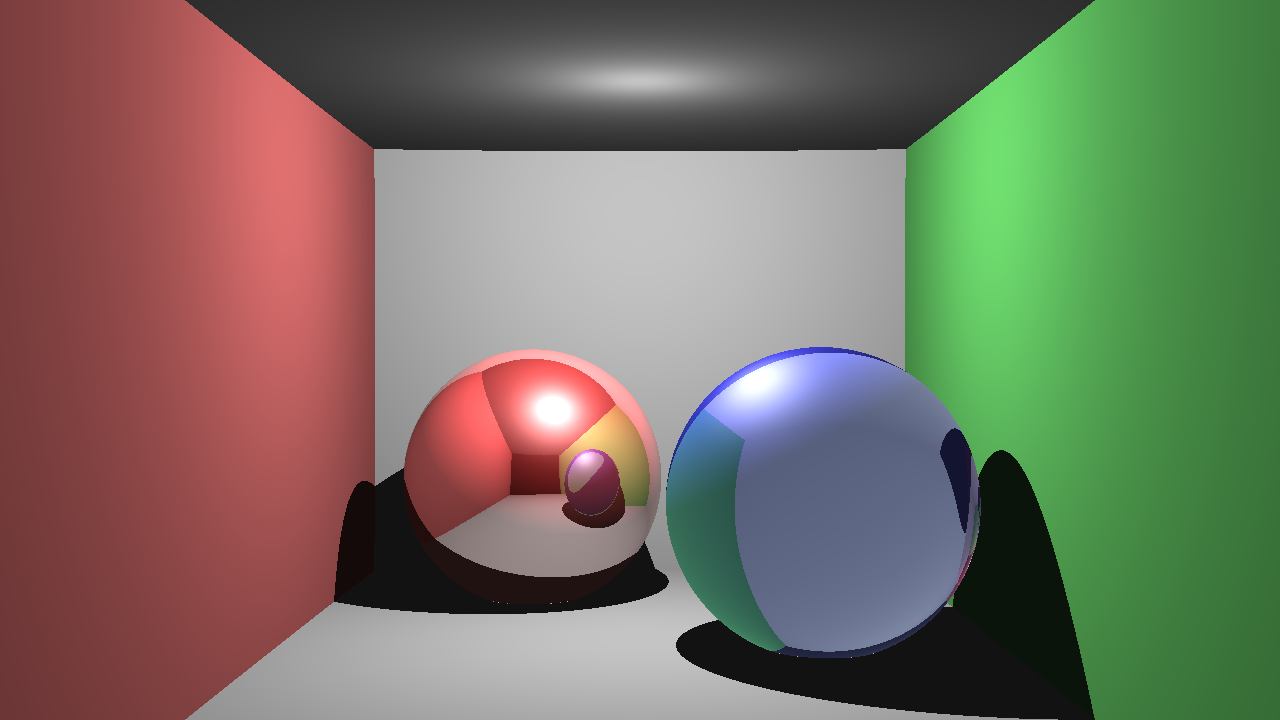
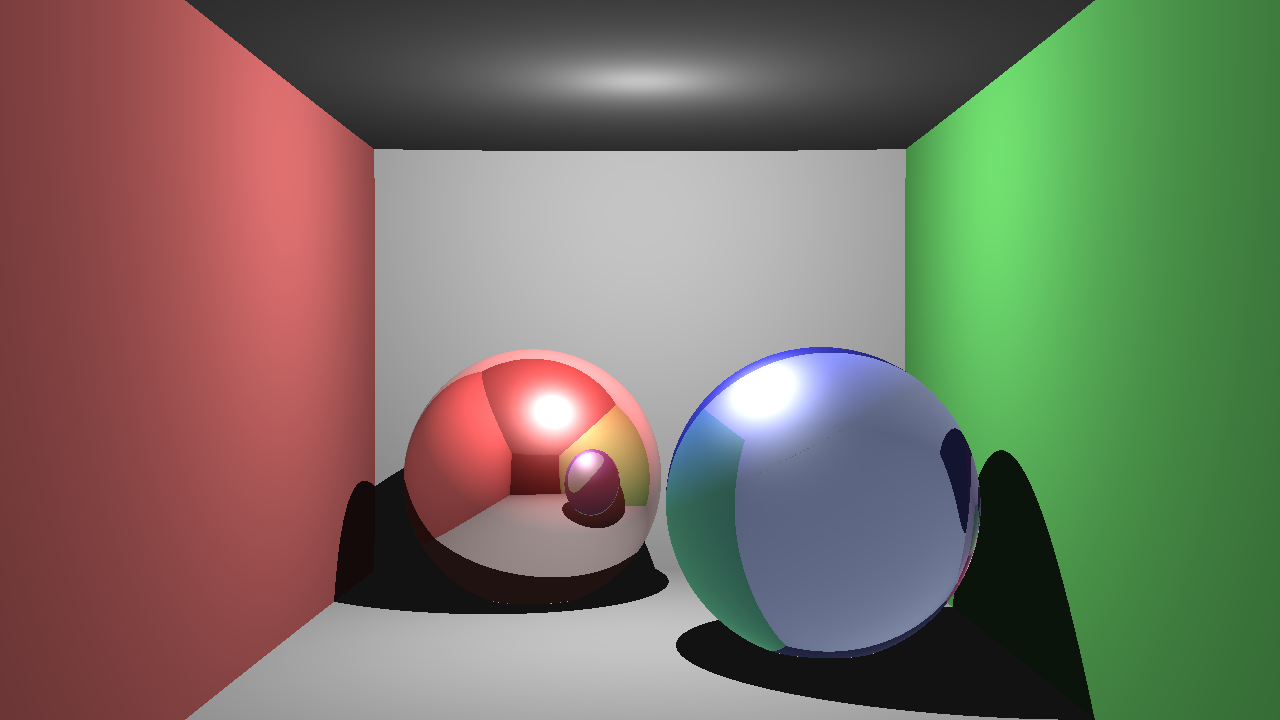
Added TIR absorption

Changed region(s): [[0.5625, 0.4889, 0.6562, 0.6417], [0.4062, 0.5806, 0.4688, 0.6722]]

diff --git a/src/Materials.cpp b/src/Materials.cpp
@@ -31,10 +31,10 @@ Color MtlBlinn::Shade(Ray const &ray, HitInfo const &hInfo, LightList const &lig
 
         const Vec3f halfway{ (viewDir + lightDir).GetNormalized() };
         const float blinnTerm{ std::max(0.0f, normal.Dot(halfway)) };
-        finalColor += specular * pow(blinnTerm, glossiness) * lightIntensity * geometryTerm;
+        finalColor += specular * pow(blinnTerm, glossiness) * lightIntensity;// * geometryTerm;
     }
 
-    // Calulate reflected color
+    // Reflections
     if (bounceCount > 0 && reflection.Sum() > 0.0f)
     {
         const Vec3f perfectReflectionDir{ normal * 2 * viewDir.Dot(normal) - viewDir };
@@ -44,7 +44,7 @@ Color MtlBlinn::Shade(Ray const &ray, HitInfo const &hInfo, LightList const &lig
             finalColor += reflectionHitInfo.node->GetMaterial()->Shade(reflectionRay, reflectionHitInfo, lights, bounceCount - 1) * reflection;
     }
 
-    // Calculate refracted color
+    // Refractions
     if (bounceCount > 0 && refraction.Sum() > 0.0f)
     {
         const float refractionRatio{ hInfo.front ? 1.0f / ior : ior };
@@ -52,14 +52,23 @@ Color MtlBlinn::Shade(Ray const &ray, HitInfo const &hInfo, LightList const &lig
 
         const float cosThetaRefractionSquared{ 1.0f - pow(refractionRatio, 2) * (1.0f - pow(viewDir.Dot(N), 2)) };
 
-        // Total intern refraction
+        // Total internal reflection
         if (cosThetaRefractionSquared < 0.0f)
         { 
-            const Vec3f perfectReflectionDir{ normal * 2 * viewDir.Dot(normal) - viewDir };
+            const Vec3f perfectReflectionDir{ N * 2 * viewDir.Dot(N) - viewDir };
             const Ray reflectionRay{ hInfo.p + perfectReflectionDir * 0.0002f, perfectReflectionDir };
             HitInfo reflectionHitInfo{};
             if (shootRay(lightsGlobalVars::rootNode, reflectionRay, reflectionHitInfo))
-                finalColor += reflectionHitInfo.node->GetMaterial()->Shade(reflectionRay, reflectionHitInfo, lights, bounceCount - 1) * reflection;
+            {
+                Color colorFromReflection{ reflectionHitInfo.node->GetMaterial()->Shade(reflectionRay, reflectionHitInfo, lights, bounceCount - 1) * reflection };
+                const float absorptionRed{ exp(-absorption[0] * reflectionHitInfo.z) };
+                const float absorptionGreen{ exp(-absorption[1] * reflectionHitInfo.z) };
+                const float absorptionBlue{ exp(-absorption[2] * reflectionHitInfo.z) };
+                colorFromReflection[0] *= absorptionRed;
+                colorFromReflection[1] *= absorptionGreen;
+                colorFromReflection[2] *= absorptionBlue;
+                finalColor += colorFromReflection;
+            }
 
             return finalColor;
         }
